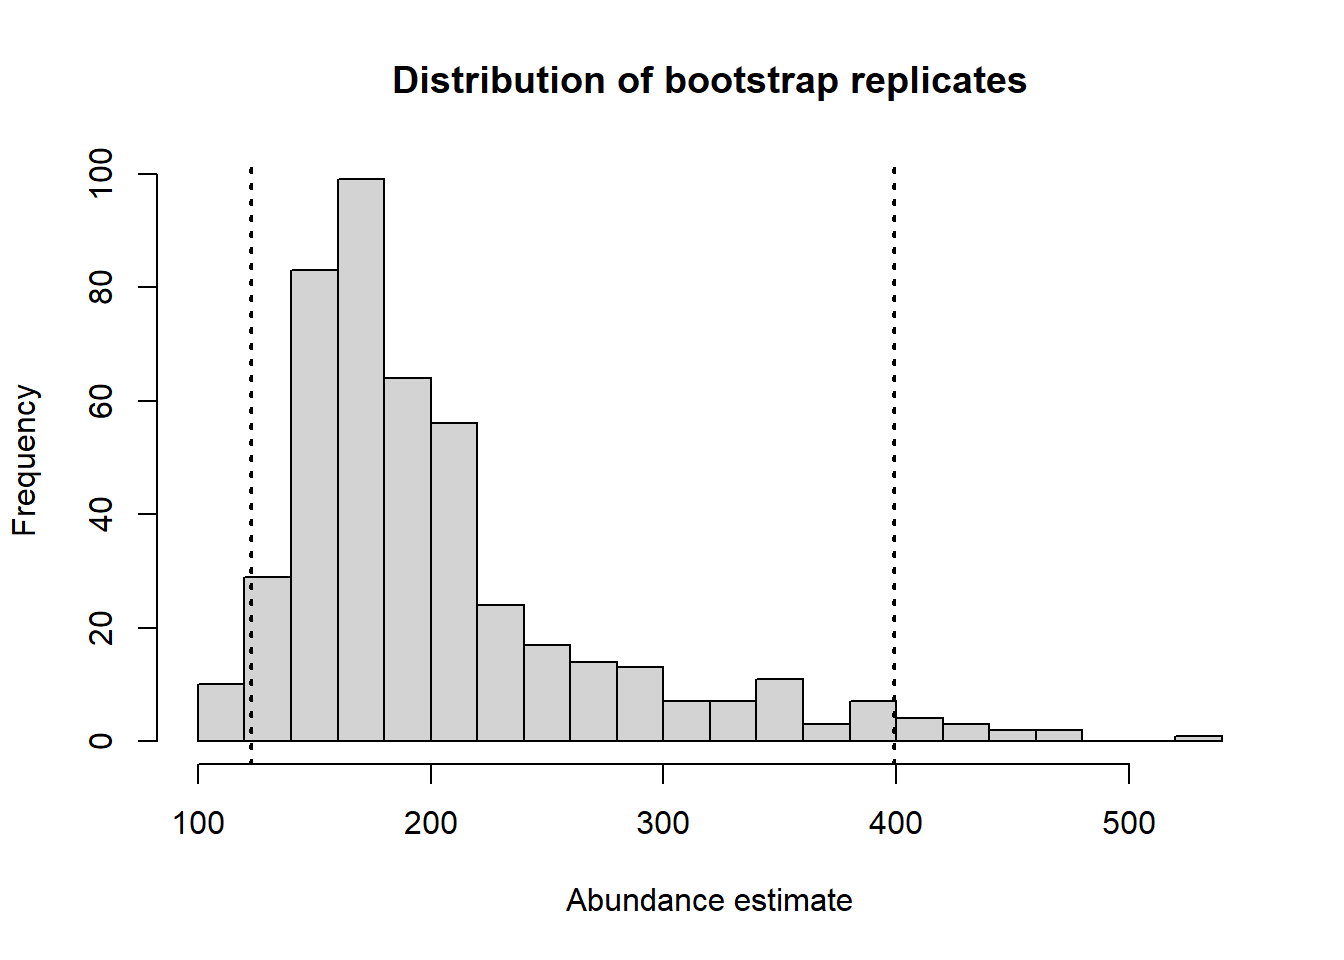
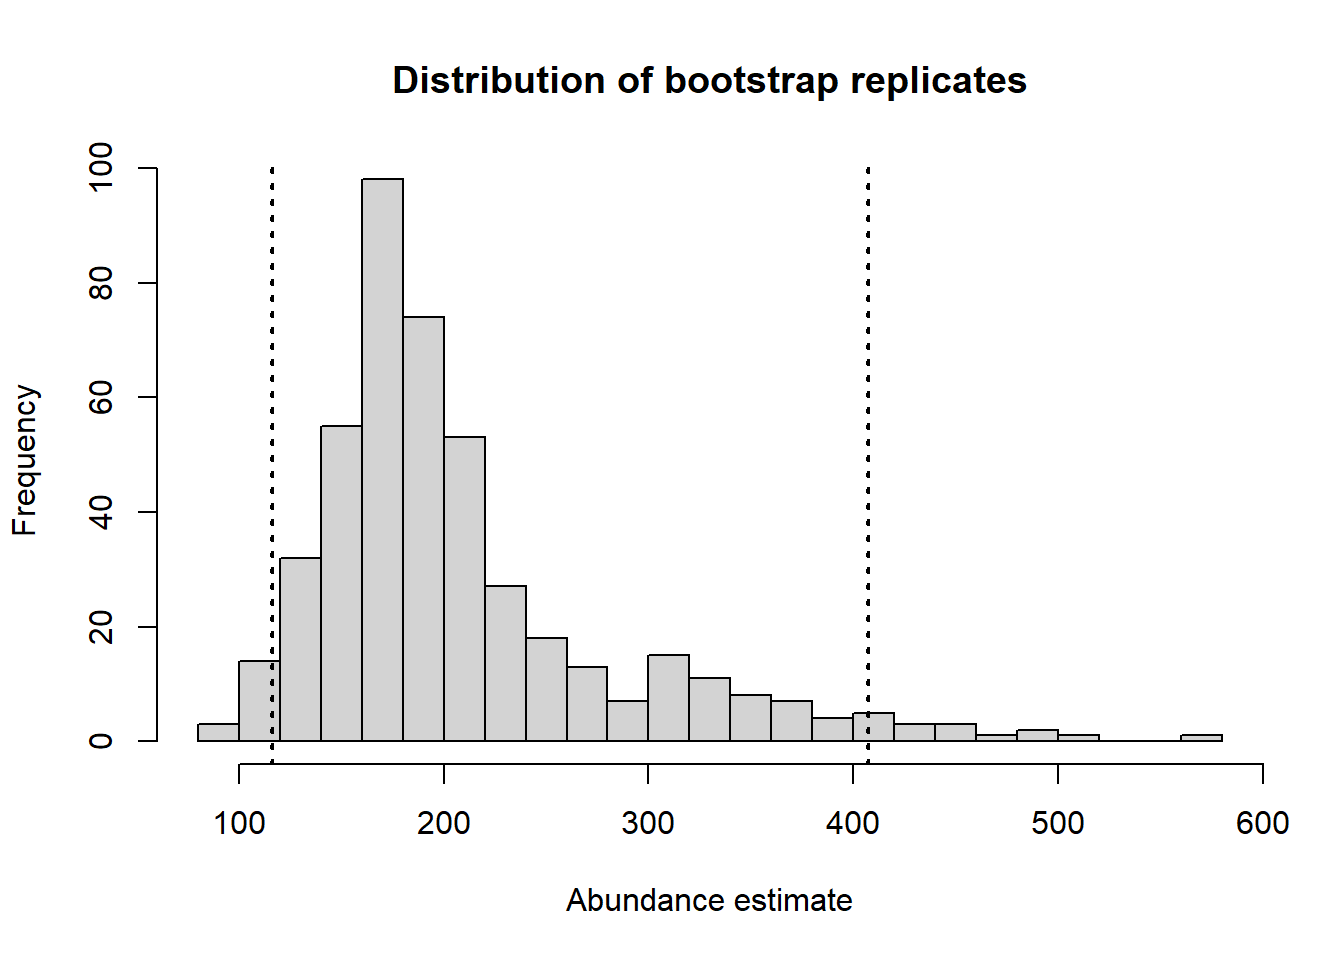
march 23 complete

diff --git a/docs/announce.html b/docs/announce.html
@@ -224,7 +224,51 @@ ul.task-list li input[type="checkbox"] {
 
 <div class="quarto-listing quarto-listing-container-grid" id="listing-listing">
 <div class="list grid quarto-listing-cols-3">
-<div class="g-col-1" data-index="0" data-listing-date-sort="1679270400000" data-listing-file-modified-sort="1678973260243" data-listing-reading-time-sort="1.695">
+<div class="g-col-1" data-index="0" data-listing-date-sort="1680217200000" data-listing-file-modified-sort="1680245680439" data-listing-reading-time-sort="0.985">
+<a href="./announce/2022-12-31-moreresources/index.html" class="quarto-grid-link">
+<div class="quarto-grid-item card h-100 card-left">
+<p class="card-img-top">
+<img src="https://images.unsplash.com/photo-1518718486060-ad84afd779a4?ixlib=rb-4.0.3&amp;ixid=MnwxMjA3fDB8MHxzZWFyY2h8MXx8bW9yZSUyMHJlc291cmNlc3xlbnwwfHwwfHw%3D&amp;auto=format&amp;fit=crop&amp;w=500&amp;q=60" class="thumbnail-image card-img" style="height: 300px;">
+</p>
+<div class="card-body post-contents">
+<h5 class="no-anchor card-title listing-title">
+More resources
+</h5>
+<div class="card-text listing-description">
+Not all concepts can be discussed in this 10-session training workshop. Where to go if you want more information?
+</div>
+<div class="card-attribution card-text-small end">
+<div class="listing-date">
+Mar 31, 2023
+</div>
+</div>
+</div>
+</div>
+</a>
+</div>
+<div class="g-col-1" data-index="1" data-listing-date-sort="1680217200000" data-listing-file-modified-sort="1680245711253" data-listing-reading-time-sort="4.975">
+<a href="./announce/2023-01-02-mysterysoln/index.html" class="quarto-grid-link">
+<div class="quarto-grid-item card h-100 card-left">
+<p class="card-img-top">
+<img src="https://images.unsplash.com/photo-1443521156453-f82c842b6e7f?ixlib=rb-4.0.3&amp;ixid=MnwxMjA3fDB8MHxjb2xsZWN0aW9uLXBhZ2V8NjB8NDcxMTQ0NHx8ZW58MHx8fHw%3D&amp;auto=format&amp;fit=crop&amp;w=500&amp;q=60" class="thumbnail-image card-img" style="height: 300px;">
+</p>
+<div class="card-body post-contents">
+<h5 class="no-anchor card-title listing-title">
+Solution to mystery analysis
+</h5>
+<div class="card-text listing-description">
+Remember, the most important aspect of this exercise is the workflow that you followed, the decisions you made and the support (evidence) used to support those decisions.
+</div>
+<div class="card-attribution card-text-small end">
+<div class="listing-date">
+Mar 31, 2023
+</div>
+</div>
+</div>
+</div>
+</a>
+</div>
+<div class="g-col-1" data-index="2" data-listing-date-sort="1679270400000" data-listing-file-modified-sort="1678973260243" data-listing-reading-time-sort="1.695">
 <a href="./announce/2022-12-29-quarto/index.html" class="quarto-grid-link">
 <div class="quarto-grid-item card h-100 card-left">
 <p class="card-img-top">
@@ -246,7 +290,7 @@ Mar 20, 2023
 </div>
 </a>
 </div>
-<div class="g-col-1" data-index="1" data-listing-date-sort="1679270400000" data-listing-file-modified-sort="1679313312935" data-listing-reading-time-sort="1.69">
+<div class="g-col-1" data-index="3" data-listing-date-sort="1679270400000" data-listing-file-modified-sort="1679313312935" data-listing-reading-time-sort="1.69">
 <a href="./announce/2022-12-29-tutorials/index.html" class="quarto-grid-link">
 <div class="quarto-grid-item card h-100 card-left">
 <p class="card-img-top">
@@ -268,7 +312,7 @@ Mar 20, 2023
 </div>
 </a>
 </div>
-<div class="g-col-1" data-index="2" data-listing-date-sort="1678060800000" data-listing-file-modified-sort="1676640873118" data-listing-reading-time-sort="0.34">
+<div class="g-col-1" data-index="4" data-listing-date-sort="1678060800000" data-listing-file-modified-sort="1676640873118" data-listing-reading-time-sort="0.34">
 <a href="./announce/2022-11-30-announce1/index.html" class="quarto-grid-link">
 <div class="quarto-grid-item card h-100 card-left">
 <p class="card-img-top">

diff --git a/docs/announce/2023-01-02-mysterysoln/index.html b/docs/announce/2023-01-02-mysterysoln/index.html
@@ -7,7 +7,7 @@
 <meta name="viewport" content="width=device-width, initial-scale=1.0, user-scalable=yes">
 
 <meta name="author" content="Eric Rexstad">
-<meta name="dcterms.date" content="2023-01-19">
+<meta name="dcterms.date" content="2023-03-31">
 <meta name="description" content="Remember, the most important aspect of this exercise is the workflow that you followed, the decisions you made and the support (evidence) used to support those decisions.">
 
 <title>Distance sampling workshop - Solution to mystery analysis</title>
@@ -221,7 +221,7 @@ code span.wa { color: #60a0b0; font-weight: bold; font-style: italic; } /* Warni
       <div>
       <div class="quarto-title-meta-heading">Published</div>
       <div class="quarto-title-meta-contents">
-        <p class="date">January 19, 2023</p>
+        <p class="date">March 31, 2023</p>
       </div>
     </div>
     
@@ -671,7 +671,7 @@ N in covered region 70.5283160 13.91222961 0.1972574</code></pre>
 <p><img src="index_files/figure-html/plotit-1.png" class="img-fluid" width="672"></p>
 </div>
 </div>
-<p>Confidence interval bounds from bootstrap are (123, 399), somewhat wider than the analytical confidence interval bounds specified above.</p>
+<p>Confidence interval bounds from bootstrap are (116, 407), somewhat wider than the analytical confidence interval bounds specified above.</p>
 </section>
 <section id="closest-aic-score-competitor-hazard-rate-with-sex-covariate" class="level2">
 <h2 class="anchored" data-anchor-id="closest-aic-score-competitor-hazard-rate-with-sex-covariate">Closest AIC score competitor, Hazard rate with sex covariate</h2>
